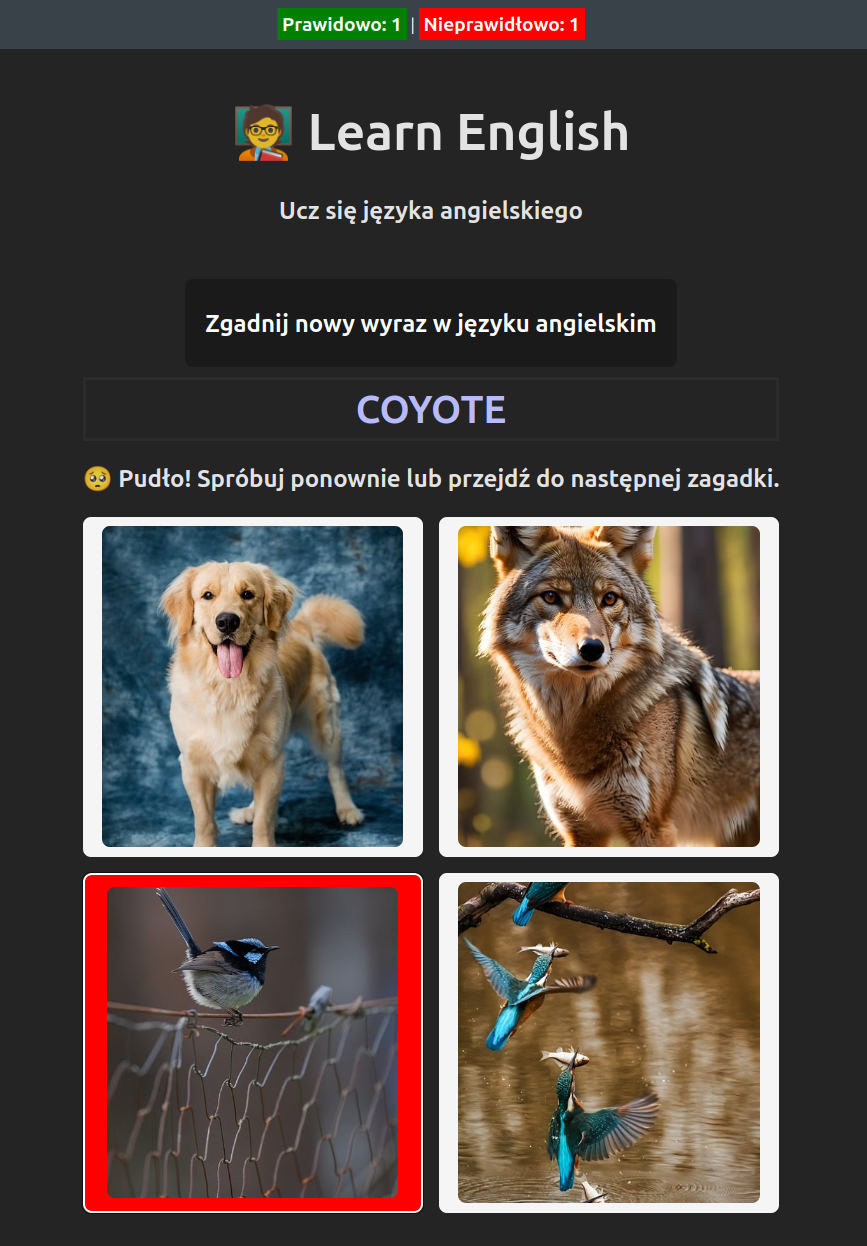
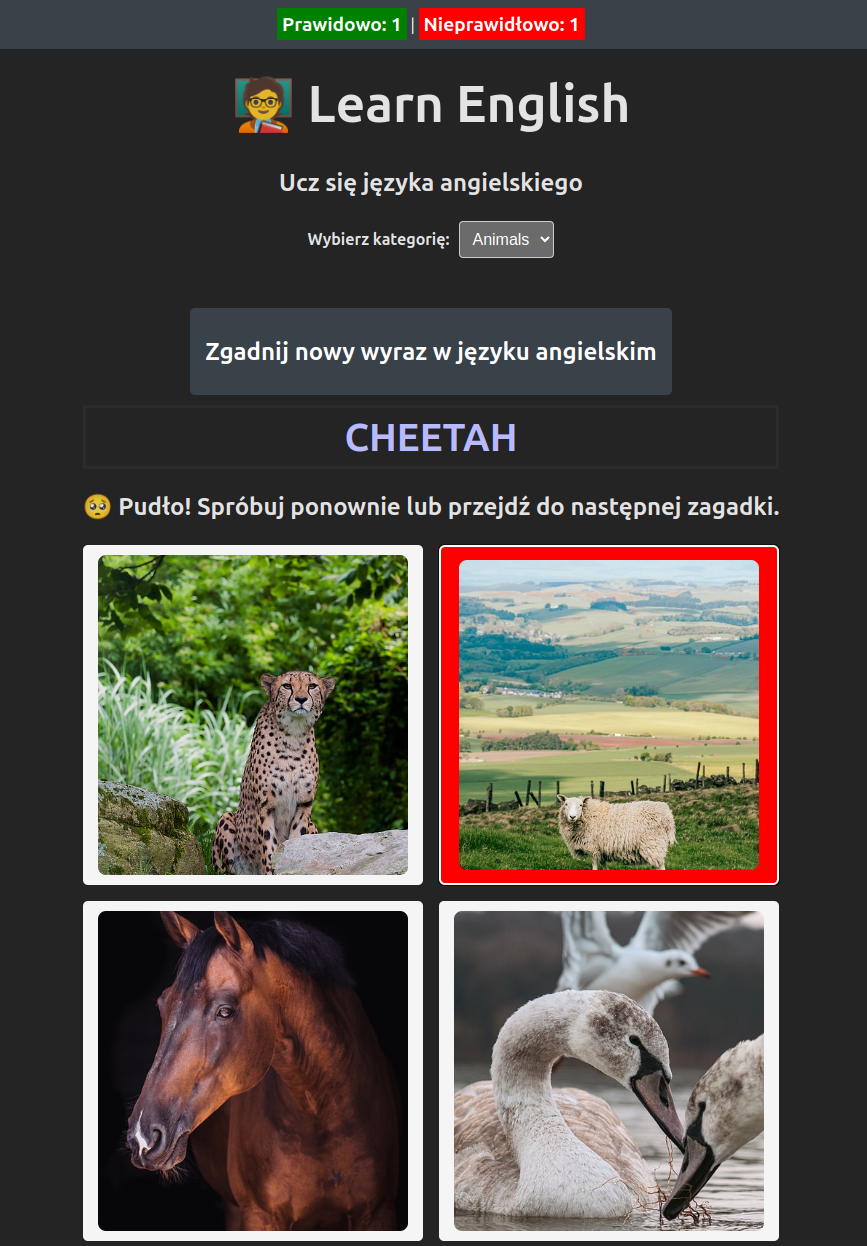
Adds different categories support.

diff --git a/ui/src/App.css b/ui/src/App.css
@@ -1,3 +1,5 @@
+/* App.css */
+
 #root {
   max-width: 1280px;
   margin: 0 auto;
@@ -11,9 +13,11 @@
   will-change: filter;
   transition: filter 300ms;
 }
+
 .logo:hover {
   filter: drop-shadow(0 0 2em #646cffaa);
 }
+
 .logo.react:hover {
   filter: drop-shadow(0 0 2em #61dafbaa);
 }
@@ -34,45 +38,66 @@
 }
 
 .navbar {
-  position: fixed; /* Fixes the navbar to the top */
-  top: 0; /* Align to the top */
-  left: 0; /* Align to the left */
-  right: 0; /* Align to the right */
-  background-color: #394149; /* Background color for navbar */
-  color: white; /* Text color */
-  padding: 10px; /* Spacing */
-  text-align: center; /* Center the text */
-  z-index: 1000; /* Ensure it is above other content */
+  position: fixed;
+  top: 0;
+  left: 0;
+  right: 0;
+  background-color: #394149;
+  color: white;
+  padding: 10px;
+  text-align: center;
+  z-index: 1000;
 }
 
 .card {
   text-align: center;
-  margin-top: 50px; /* Space below the navbar */
+  margin-top: 50px;
+}
+
+.category-selector {
+  margin: 5px 0; /* Space around the category selector */
+}
+
+.category-selector label {
+  margin-right: 10px;
+  font-weight: bold;
+}
+
+select {
+  padding: 8px;
+  border-radius: 4px;
+  border: 1px solid #ccc;
+  font-size: 16px;
+  transition: border-color 0.3s;
+}
+
+select:hover {
+  border-color: #394149; /* Change border color on hover */
 }
 
 .grid {
   display: grid;
   grid-template-columns: repeat(2, 1fr);
-  gap: 16px; /* Increased space between images */
-  margin-top: 20px; /* Space above grid */
+  gap: 16px;
+  margin-top: 20px;
 }
 
 .grid-item {
-  border: inherit; /* Remove button border */
-  background: whitesmoke; /* Remove button background */
-  cursor: default; /* Change cursor on hover */
-  width: 340px; /* Set fixed width for the grid item */
-  height: 340px; /* Set fixed height for the grid item */
-  overflow: hidden; /* Hide overflow */
-  position: relative; /* Required for absolute positioning of background */
+  border: inherit;
+  background: whitesmoke;
+  cursor: default;
+  width: 340px;
+  height: 340px;
+  overflow: hidden;
+  position: relative;
 }
 
 .grid-item img {
-  width: 100%; /* Make images responsive */
-  height: 100%; /* Fill the height */
-  object-fit: cover; /* Maintain aspect ratio while filling */
-  border-radius: 8px; /* Optional: rounded corners */
-  transition: transform 0.2s; /* Add a small animation */
+  width: 100%;
+  height: 100%;
+  object-fit: cover;
+  border-radius: 8px;
+  transition: transform 0.2s;
 }
 
 .guess-word {
@@ -84,20 +109,35 @@
 }
 
 .grid-item:hover img {
-  transform: scale(1.05); /* Slightly enlarge on hover */
+  transform: scale(1.05);
 }
 
 .correct {
-  border: 5px solid green; /* Green border for correct choice */
-  background-color: green; /* Light green background */
+  border: 5px solid green;
+  background-color: green;
 }
 
 .incorrect {
-  border: 5px solid red; /* Red border for incorrect choice */
-  background-color: red; /* Light red background */
+  border: 5px solid red;
+  background-color: red;
 }
 
 .emphasized {
   font-size: larger;
   font-weight: bold;
+}
+
+button {
+  background-color: #394149; /* Match navbar color */
+  color: white;
+  border: none;
+  border-radius: 5px;
+  padding: 10px 15px;
+  cursor: pointer;
+  font-size: 16px;
+  transition: background-color 0.3s;
+}
+
+button:hover {
+  background-color: #2b2b2b; /* Darker shade on hover */
 }

diff --git a/ui/src/App.tsx b/ui/src/App.tsx
@@ -7,7 +7,10 @@ type JsonResponse = {
   wrongPhotos: string[];
 };
 
+const categories = ['food', 'animals'];
+
 function App() {
+  const [currentCategory, setCurrentCategory] = useState<string>('food');
   const [wordToGuess, setData] = useState<string | undefined>();
   const [photoToGuess, setPhoto] = useState<string | undefined>();
   const [wrongPhotos, setWrongPhotos] = useState<string[]>([]);
@@ -22,7 +25,8 @@ function App() {
     setData("Losuję nowy wyraz...");
     setWrongPhotos([]);
 
-    const response = await fetch('http://localhost:8080/words/get');
+    const response = await fetch(`http://localhost:8080/words/get?category=${currentCategory}`);
+    console.log(`After response of ${currentCategory}`);
     if (response.ok) {
       const json = await response.json() as JsonResponse;
 
@@ -48,12 +52,17 @@ function App() {
     setIsCorrect(correct);
 
     if (correct) {
-      setReadTheDocs("😊 Brawo! To prawidłowa odpowiedź!")
+      setReadTheDocs("😊 Brawo! To prawidłowa odpowiedź!");
       setCorrectGuesses(prev => prev + 1);
     } else {
-      setReadTheDocs("🥺 Pudło! Spróbuj ponownie lub przejdź do następnej zagadki.")
+      setReadTheDocs("🥺 Pudło! Spróbuj ponownie lub przejdź do następnej zagadki.");
       setIncorrectGuesses(prev => prev + 1);
     }
+  };
+
+  const handleCategoryChange = (event: React.ChangeEvent<HTMLSelectElement>) => {
+    setCurrentCategory(event.target.value);
+    setReadTheDocs(`Zmieniono kategorię na: ${event.target.value}`);
   };
 
   return (
@@ -64,6 +73,17 @@ function App() {
       </div>
       <h1>🧑🏫 Learn English</h1>
       <h2>Ucz się języka angielskiego</h2>
+
+      <div className="category-selector">
+        <label htmlFor="category">Wybierz kategorię:</label>
+        <select id="category" value={currentCategory} onChange={handleCategoryChange}>
+          {categories.map((category) => (
+            <option key={category} value={category}>
+              {category.charAt(0).toUpperCase() + category.slice(1)} {}
+            </option>
+          ))}
+        </select>
+      </div>
 
       <div className="card">
         <button onClick={fetchDataFromBackend}>

diff --git a/service/src/dictionaries/animals.dictionary.ts b/service/src/dictionaries/animals.dictionary.ts
@@ -1,43 +1,7 @@
-export const dictionary = () => {
-  return [
-    'peach',
-    'cherry',
-    'lemon',
-    'grape',
-    'banana',
-    'orange',
-    'plum',
-    'pineapple',
-    'apple',
-    'pear',
-    'strawberry',
-    'bread',
-    'pizza',
-    'milk',
-    'butter',
-    'cake',
-    'chocolate',
-    'cheese',
-    'meat',
-    'eggs',
-    'jam',
-    'water',
-    'ham',
-    'ice cream',
-    'candies',
-    'honey',
-    'salt',
-    'sugar',
-    'olive oil',
-    'fish',
-    'lettuce',
-    'lemon juice',
-    'cereal',
-    'fries',
-  ];
-  return ['tomato', 'carrot', 'pepper', 'cucumber', 'potato', 'broccoli', 'pumpkin', 'peas', 'onion', 'garlic'];
-  return ['Pen', 'Book', 'Rubber', 'Scissors', 'Paints', 'Crayon', 'Ruler', 'Pencil', 'Bag', 'Glue'];
-  return [
+import { Dictionary } from './dictonaries.factory';
+
+export const animalsDictionary: Dictionary = {
+  entries: [
     'Aardvark',
     'Albatross',
     'Alligator',
@@ -261,5 +225,5 @@ export const dictionary = () => {
     'Wren',
     'Yak',
     'Zebra',
-  ];
+  ],
 };

diff --git a/service/src/dictionaries/dictonaries.factory.spec.ts b/service/src/dictionaries/dictonaries.factory.spec.ts
@@ -1,0 +1,31 @@
+import { DictionariesFactory, SupportedCategories } from './dictonaries.factory';
+
+describe('Dictionaries Factory', () => {
+  let factory: DictionariesFactory;
+
+  beforeEach(() => {
+    factory = new DictionariesFactory();
+  });
+
+  it('should be defined', () => {
+    expect(factory).toBeDefined();
+  });
+
+  it('should throw error on unsupported category', () => {
+    expect(() => factory.createForCategory('unsupported' as unknown as SupportedCategories)).toThrow();
+  });
+
+  it('should return food dictionary', () => {
+    const foodDictionary = factory.createForCategory('food');
+
+    expect(foodDictionary.entries).toBeDefined();
+    expect(foodDictionary.entries.at(0)).toEqual('peach');
+  });
+
+  it('should return animals dictionary', () => {
+    const animalDictionary = factory.createForCategory('animals');
+
+    expect(animalDictionary.entries).toBeDefined();
+    expect(animalDictionary.entries.at(0)).toEqual('Aardvark');
+  });
+});

diff --git a/service/src/app.service.ts b/service/src/app.service.ts
@@ -1,14 +1,15 @@
 import { Injectable } from '@nestjs/common';
-import { dictionary } from './dictionary';
 import { ImagesProvider } from './images/images.provider';
+import { DictionariesFactory, SupportedCategories } from './dictionaries/dictonaries.factory';
 
 @Injectable()
 export class AppService {
   constructor(private readonly imagesProvider: ImagesProvider) {}
 
-  async getRandomWord() {
-    const randomEnglishWords = dictionary();
+  async getRandomWord(category: SupportedCategories = 'food') {
+    const randomEnglishWords = new DictionariesFactory().createForCategory(category).entries;
     const chosenRandomWord = randomEnglishWords[Math.floor(Math.random() * randomEnglishWords.length)];
+    console.log(chosenRandomWord);
     const notChosenWords = randomEnglishWords
       .filter((word) => word !== chosenRandomWord)
       .sort(() => Math.random() - 0.5);

diff --git a/service/src/dictionaries/food.dictionary.ts b/service/src/dictionaries/food.dictionary.ts
@@ -1,0 +1,40 @@
+import { Dictionary } from './dictonaries.factory';
+
+export const foodDictionary: Dictionary = {
+  entries: [
+    'peach',
+    'cherry',
+    'lemon',
+    'grape',
+    'banana',
+    'orange',
+    'plum',
+    'pineapple',
+    'apple',
+    'pear',
+    'strawberry',
+    'bread',
+    'pizza',
+    'milk',
+    'butter',
+    'cake',
+    'chocolate',
+    'cheese',
+    'meat',
+    'eggs',
+    'jam',
+    'water',
+    'ham',
+    'ice cream',
+    'candies',
+    'honey',
+    'salt',
+    'sugar',
+    'olive oil',
+    'fish',
+    'lettuce',
+    'lemon juice',
+    'cereal',
+    'fries',
+  ],
+};

diff --git a/service/src/app.controller.ts b/service/src/app.controller.ts
@@ -1,12 +1,13 @@
-import { Controller, Get } from '@nestjs/common';
+import { Controller, Get, Query } from '@nestjs/common';
 import { AppService } from './app.service';
+import { SupportedCategories } from './dictionaries/dictonaries.factory';
 
 @Controller()
 export class AppController {
   constructor(private readonly appService: AppService) {}
 
   @Get('/words/get')
-  getWordInfo() {
-    return this.appService.getRandomWord();
+  getWordInfo(@Query('category') category?: SupportedCategories) {
+    return this.appService.getRandomWord(category);
   }
 }

diff --git a/service/src/dictionaries/dictonaries.factory.ts b/service/src/dictionaries/dictonaries.factory.ts
@@ -1,0 +1,21 @@
+import { animalsDictionary } from './animals.dictionary';
+import { foodDictionary } from './food.dictionary';
+
+export type SupportedCategories = 'animals' | 'food';
+
+export type Dictionary = {
+  entries: string[];
+};
+
+export class DictionariesFactory {
+  createForCategory(category: SupportedCategories) {
+    switch (category) {
+      case 'animals':
+        return animalsDictionary;
+      case 'food':
+        return foodDictionary;
+      default:
+        throw new Error('Unsupported category.');
+    }
+  }
+}
